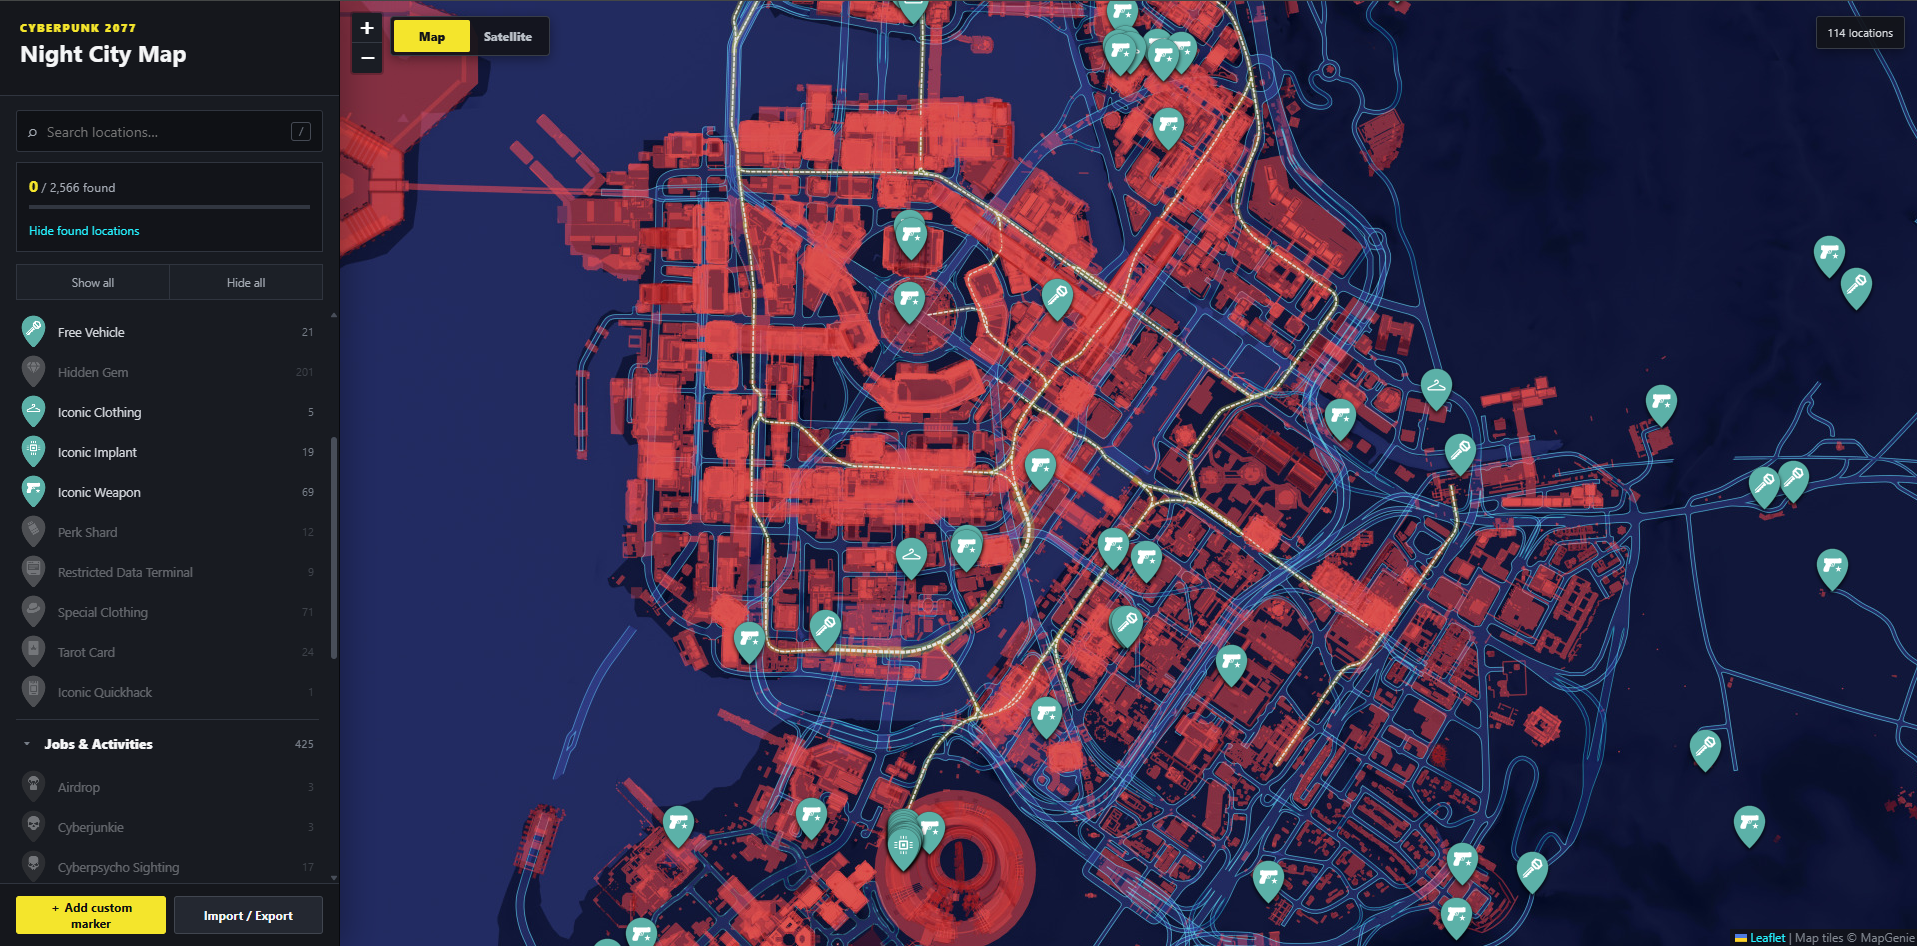
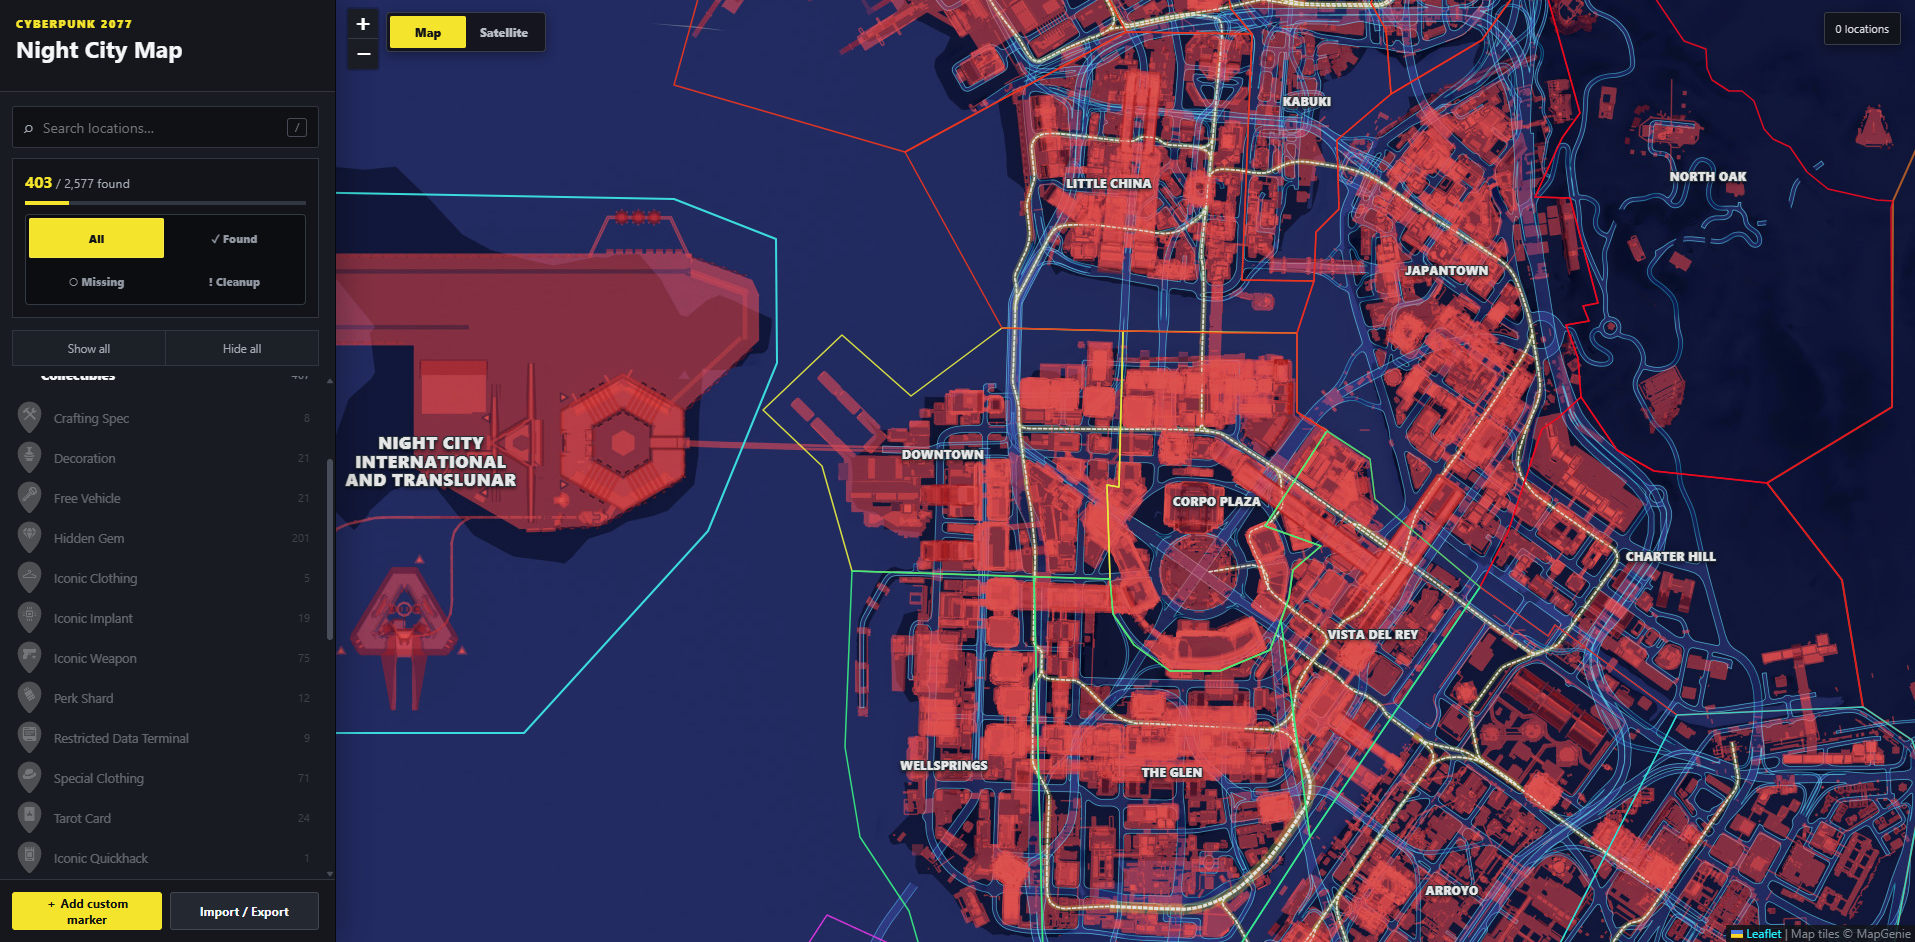
Refresh README feature screenshots

diff --git a/README.md b/README.md
@@ -12,13 +12,21 @@ The application includes 2,577 locations across 52 marker types, rich location d
 
 ## Screenshots
 
-### Standard map and category filters
+### District boundaries, labels, and category filters
 
-![Night City standard map with category filters](docs/screenshots/map-view.png)
+![Night City map with district boundaries, labels, and category filters](docs/screenshots/map-view.png)
 
-### Satellite layer and found-location tracking
+### Satellite layer with the missing-locations filter
 
-![Night City satellite map with a found iconic weapon](docs/screenshots/satellite-view.png)
+![Night City satellite map showing missing locations](docs/screenshots/satellite-view.png)
+
+### Cleanup view for missed related loot
+
+![Cleanup view highlighting found activities with missing related loot](docs/screenshots/cleanup-view.png)
+
+### Found-only view with related-loot progress
+
+![Found-only view with inline related-loot progress and collection controls](docs/screenshots/found-view.png)
 
 ## Features
 
